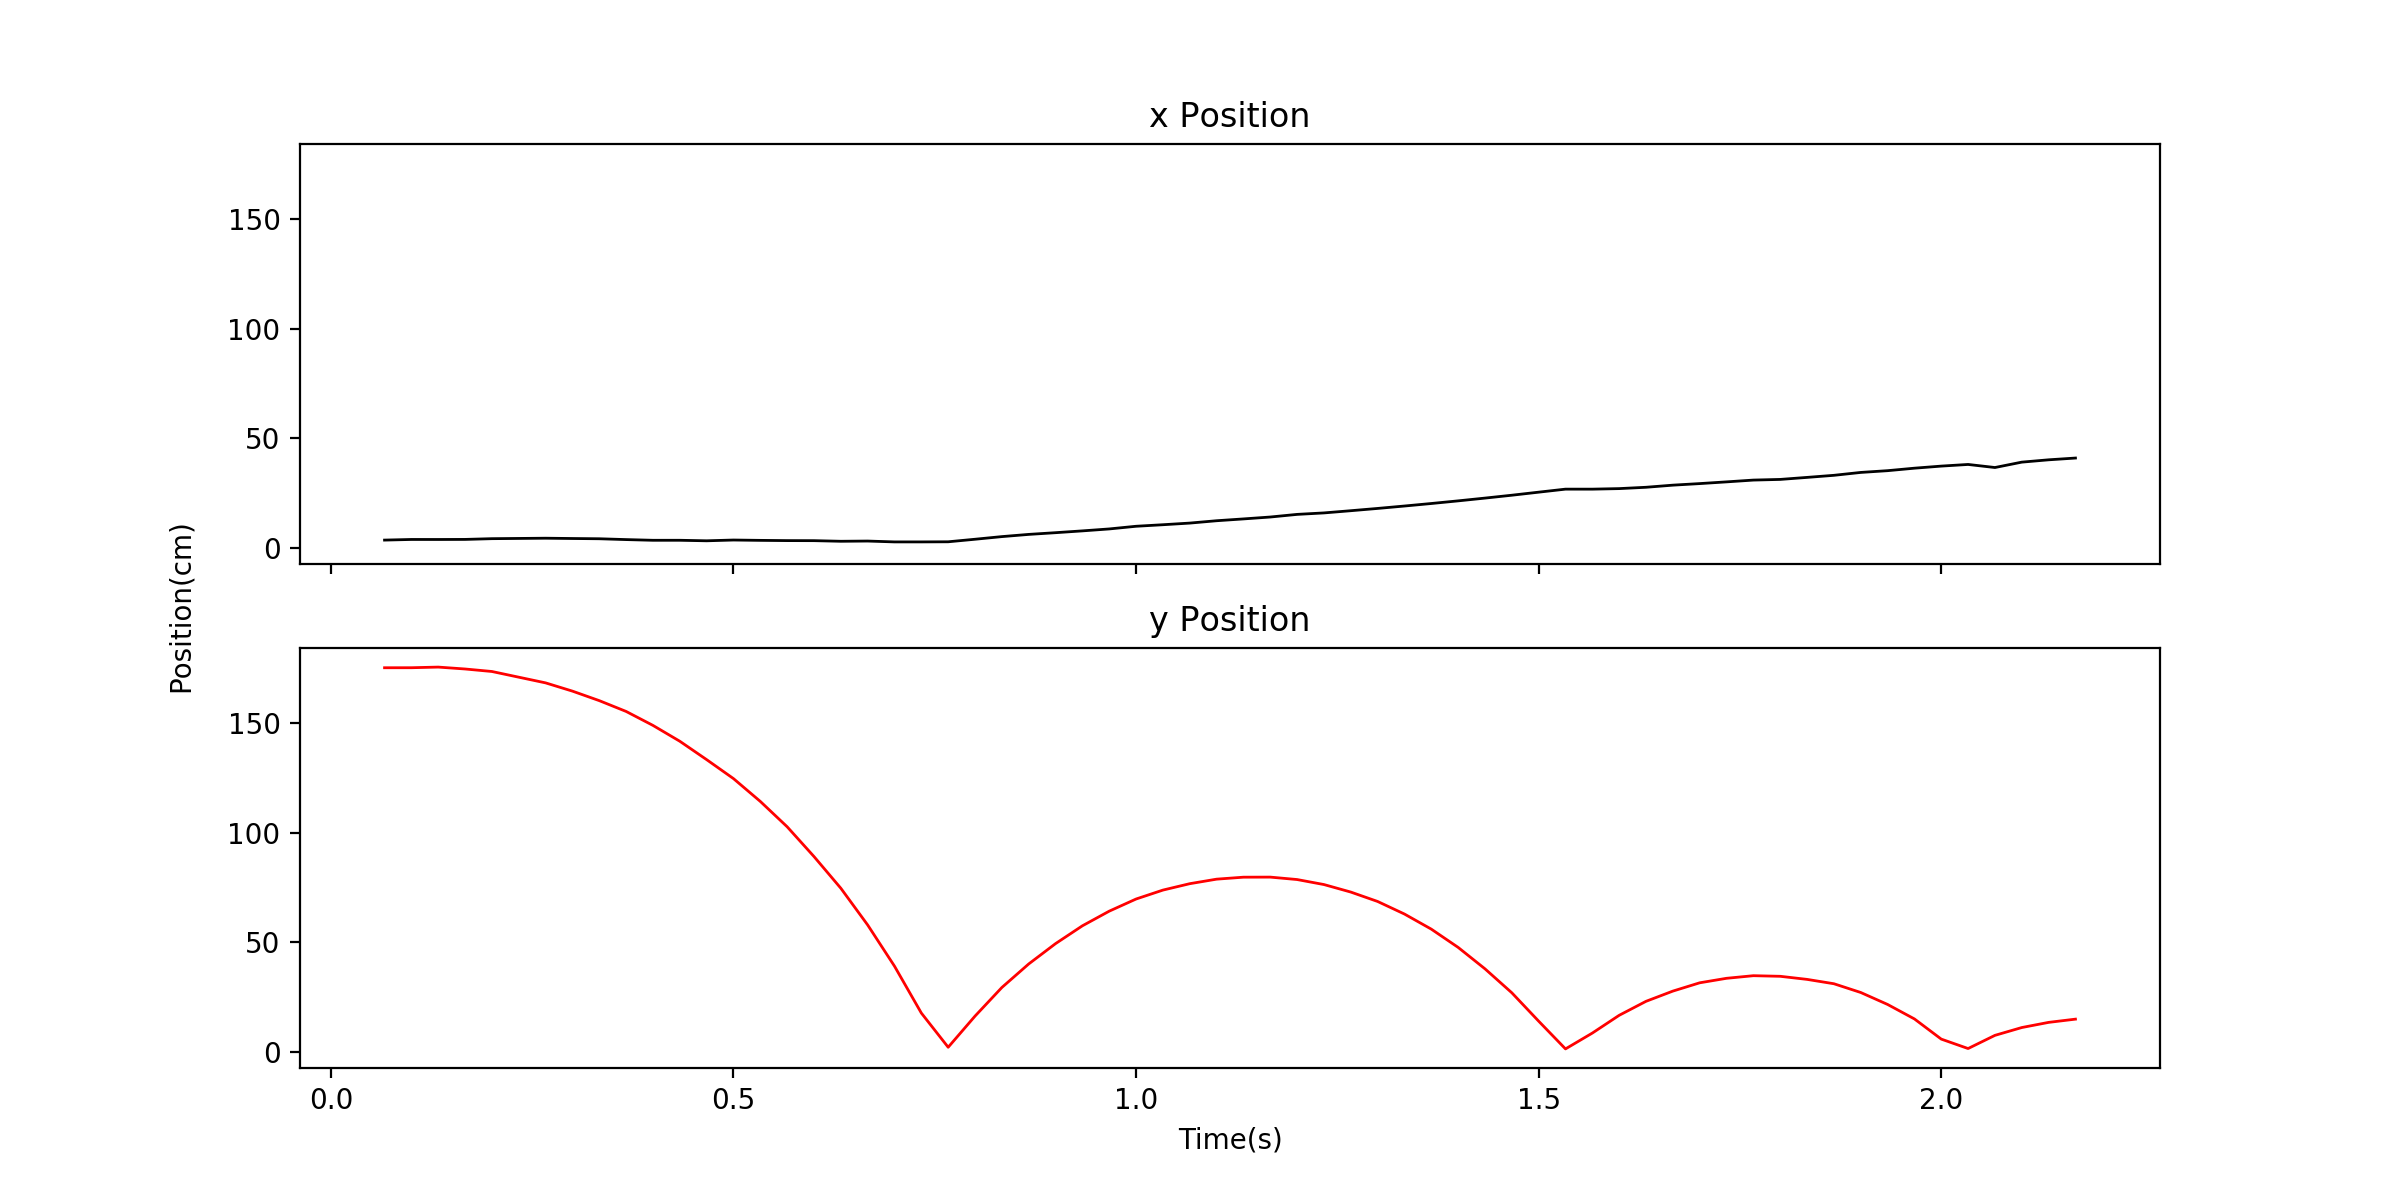
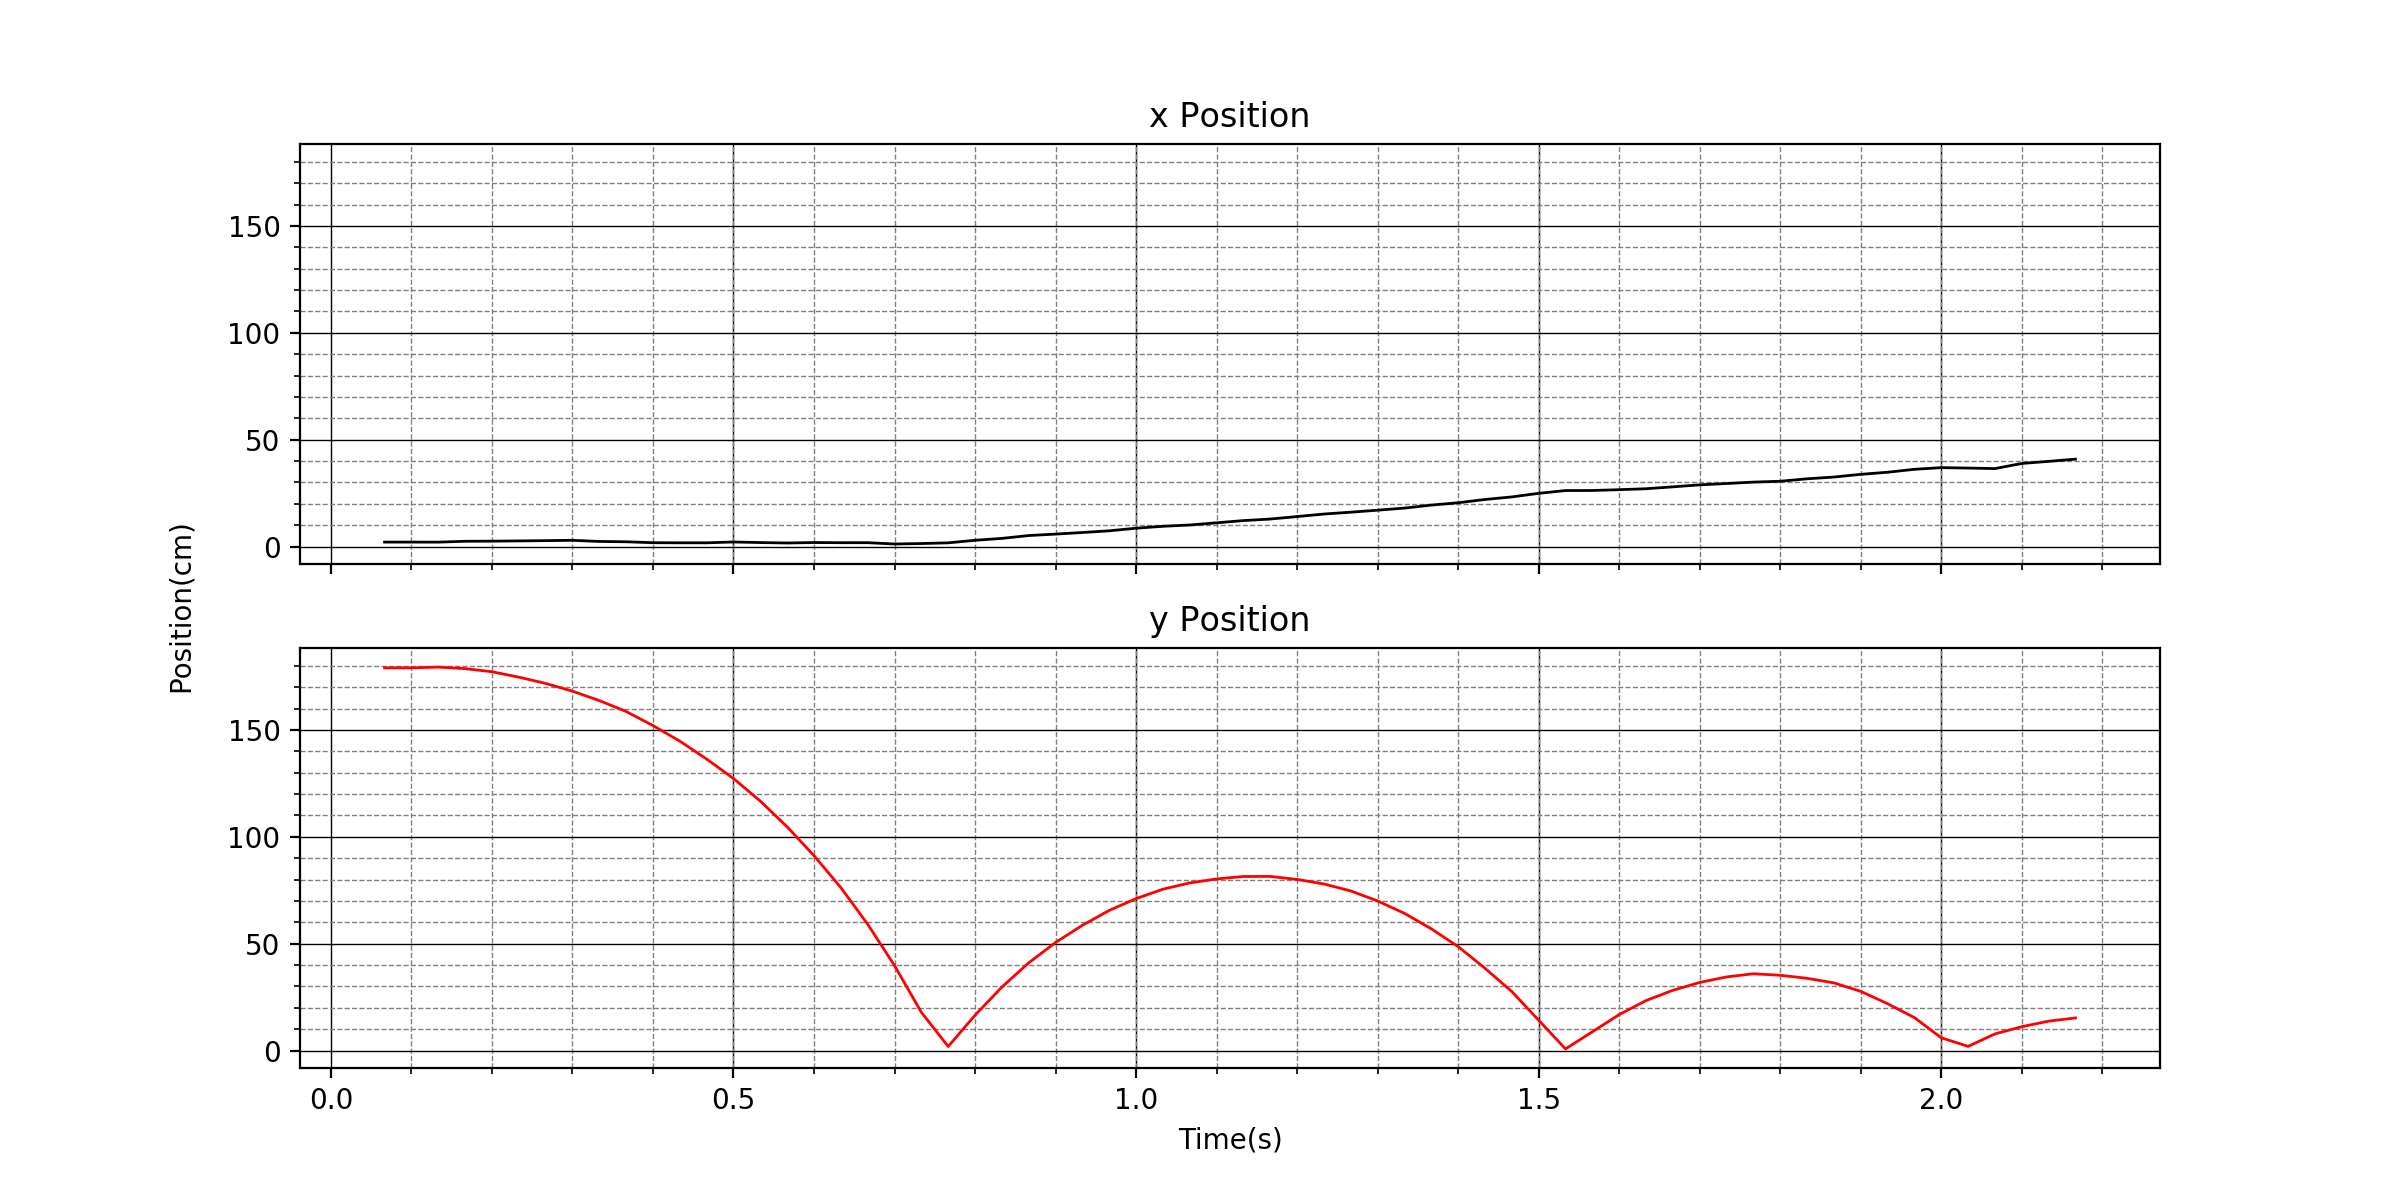
Changed mouse handling flow and plot settings

diff --git a/tracker.py b/tracker.py
@@ -227,25 +227,32 @@ class Tracker(object):
         """Plot x-y position, irrespective of time. If comp is True,
         the x and y positions are plotted on separate subplots with
         respect to time."""
+        x = [p[0] for p in self.positions]
+        y = [p[1] for p in self.positions]
         if comp:
             f, axarr = plt.subplots(2, sharex=True, sharey=True, figsize=(12, 6))
-            x = [p[0] for p in self.positions]
-            y = [p[1] for p in self.positions]
             axarr[0].plot(self.posTimes, x, "k-", linewidth=1)
             axarr[1].plot(self.posTimes, y, "r-", linewidth=1)
             axarr[0].set_title("x Position")
             axarr[1].set_title("y Position")
+            axarr[0].minorticks_on()
+            axarr[1].minorticks_on()
+            axarr[0].grid(which="major", linestyle='-', linewidth='0.5', color='black')
+            axarr[1].grid(which="major", linestyle='-', linewidth='0.5', color='black')
+            axarr[0].grid(which='minor', linestyle='--', linewidth='0.5', color='grey')
+            axarr[1].grid(which='minor', linestyle='--', linewidth='0.5', color='grey')
             f.add_subplot(111, frameon=False)
             plt.tick_params(labelcolor="none", top="off", bottom="off", left="off", right="off")
             plt.xlabel("Time(s)")
             plt.ylabel("Position({})".format(self.scale[1]), labelpad=15)
         else:
             plt.figure()
-            x = [p[0] for p in self.positions]
-            y = [p[1] for p in self.positions]
+            plt.plot(x, y, "b-", linewidth=1)
+            plt.minorticks_on()
+            plt.grid(which="major", linestyle='-', linewidth='0.5', color='black')
+            plt.grid(which='minor', linestyle='--', linewidth='0.5', color='grey')
             plt.xlabel("x Position({})".format(self.scale[1]))
             plt.ylabel("y Position({})".format(self.scale[1]))
-            plt.plot(x, y, "b-", linewidth=1)
         plt.show()
     
     def plotVel(self, comp=False):
@@ -257,6 +264,12 @@ class Tracker(object):
             axarr[1].plot(self.velTimes, self.yVel, "r-", linewidth=1)
             axarr[0].set_title("x Component of Velocity")
             axarr[1].set_title("y Component of Velocity")
+            axarr[0].minorticks_on()
+            axarr[1].minorticks_on()
+            axarr[0].grid(which="major", linestyle='-', linewidth='0.5', color='black')
+            axarr[1].grid(which="major", linestyle='-', linewidth='0.5', color='black')
+            axarr[0].grid(which='minor', linestyle='--', linewidth='0.5', color='grey')
+            axarr[1].grid(which='minor', linestyle='--', linewidth='0.5', color='grey')
             f.add_subplot(111, frameon=False)
             plt.tick_params(labelcolor="none", top="off", bottom="off", left="off", right="off")
             plt.xlabel("Time(s)")
@@ -264,6 +277,9 @@ class Tracker(object):
         else:
             plt.figure(figsize=(15, 5))
             plt.plot(self.velTimes, self.speeds, "k-", linewidth=1)
+            plt.minorticks_on()
+            plt.grid(which="major", linestyle='-', linewidth='0.5', color='black')
+            plt.grid(which='minor', linestyle='--', linewidth='0.5', color='grey')
             plt.xlabel("Time(s)")
             plt.ylabel("Speed({}/s)".format(self.scale[1]))
         plt.show()
@@ -277,6 +293,12 @@ class Tracker(object):
             axarr[1].plot(self.accelTimes, self.yAccel, "r-", linewidth=1)
             axarr[0].set_title("x Component of Acceleration")
             axarr[1].set_title("y Component of Acceleration")
+            axarr[0].minorticks_on()
+            axarr[1].minorticks_on()
+            axarr[0].grid(which="major", linestyle='-', linewidth='0.5', color='black')
+            axarr[1].grid(which="major", linestyle='-', linewidth='0.5', color='black')
+            axarr[0].grid(which='minor', linestyle='--', linewidth='0.5', color='grey')
+            axarr[1].grid(which='minor', linestyle='--', linewidth='0.5', color='grey')
             f.add_subplot(111, frameon=False)
             plt.tick_params(labelcolor="none", top="off", bottom="off", left="off", right="off")
             plt.xlabel("Time(s)")
@@ -284,6 +306,9 @@ class Tracker(object):
         else:
             plt.figure(figsize=(15, 5))
             plt.plot(self.accelTimes, self.accel, "g-", linewidth=1)
+            plt.minorticks_on()
+            plt.grid(which="major", linestyle='-', linewidth='0.5', color='black')
+            plt.grid(which='minor', linestyle='--', linewidth='0.5', color='grey')
             plt.xlabel("Time(s)")
             plt.ylabel("Acceleration({}/s^2)".format(self.scale[1]))
         plt.show()
@@ -309,30 +334,30 @@ class Tracker(object):
     def eventHandler(self, event, x, y, flags, param):
         """Function for handling mouse click and drag events."""
         if event == cv2.EVENT_LBUTTONDOWN:
-            if hypot(x - self.axes.origin[0], y - self.axes.origin[1]) <= 5:
+            if hypot(x - self.scaleLine[0][0], y - self.scaleLine[0][1]) <= 5:
                 self.dragItem = 1
-                self.axes.dragCent = (self.axes.dragCent[0] + x - self.axes.origin[0], self.axes.dragCent[1] + y - self.axes.origin[1])
-                self.axes.origin = (x, y)
-            elif hypot(x - self.axes.dragCent[0], y - self.axes.dragCent[1]) <= 5:
-                self.dragItem = 2
-                self.axes.dragCent = (x, y)
-            elif hypot(x - self.scaleLine[0][0], y - self.scaleLine[0][1]) <= 5:
-                self.dragItem = 3
                 self.scaleLine = ((x, y), self.scaleLine[1])
             elif hypot(x - self.scaleLine[1][0], y - self.scaleLine[1][1]) <= 5:
-                self.dragItem = 4
+                self.dragItem = 2
                 self.scaleLine = (self.scaleLine[0], (x, y))
+            elif hypot(x - self.axes.dragCent[0], y - self.axes.dragCent[1]) <= 5:
+                self.dragItem = 3
+                self.axes.dragCent = (x, y)
+            elif hypot(x - self.axes.origin[0], y - self.axes.origin[1]) <= 5:
+                self.dragItem = 4
+                self.axes.dragCent = (self.axes.dragCent[0] + x - self.axes.origin[0], self.axes.dragCent[1] + y - self.axes.origin[1])
+                self.axes.origin = (x, y)
         elif event == cv2.EVENT_MOUSEMOVE:
             if self.dragItem:
                 if self.dragItem == 1:
+                    self.scaleLine = ((x, y), self.scaleLine[1])
+                elif self.dragItem == 2:
+                    self.scaleLine = (self.scaleLine[0], (x, y))
+                elif self.dragItem == 3:
+                    self.axes.dragCent = (x, y)
+                elif self.dragItem == 4:
                     self.axes.dragCent = (self.axes.dragCent[0] + x - self.axes.origin[0], self.axes.dragCent[1] + y - self.axes.origin[1])
                     self.axes.origin = (x, y)
-                elif self.dragItem == 2:
-                    self.axes.dragCent = (x, y)
-                elif self.dragItem == 3:
-                    self.scaleLine = ((x, y), self.scaleLine[1])
-                elif self.dragItem == 4:
-                    self.scaleLine = (self.scaleLine[0], (x, y))
         elif event == cv2.EVENT_LBUTTONUP:
             self.dragItem = 0
     
